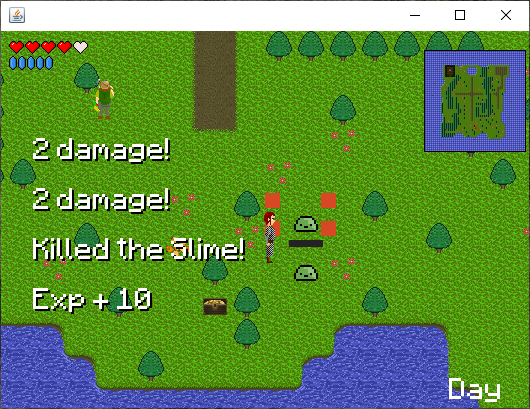
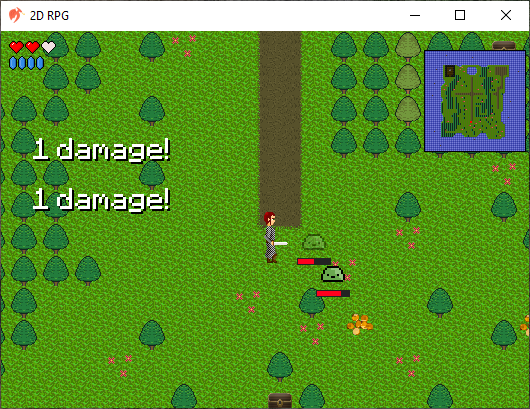
Update

diff --git a/src/main/java/com/craivet/input/Keyboard.java b/src/main/java/com/craivet/input/Keyboard.java
@@ -1,6 +1,5 @@
 package com.craivet.input;
 
-import com.craivet.Direction;
 import com.craivet.Game;
 
 import javax.swing.*;
@@ -20,8 +19,8 @@ import static com.craivet.utils.Global.*;
  * <li>Inventory: I</li>
  * <li>Stats Window: C</li>
  * <li>Debug: Q</li>
- * <li>God: G</li>
- * Ignores collisions with solid tiles and does not lose life.
+ * <li>Test Mode: T</li>
+ * Ignores collisions with solid tiles, does not lose life and can see in the dark.
  * <li>Hitbox: H</li>
  * </ul>
  */
@@ -30,7 +29,7 @@ public class Keyboard extends KeyAdapter {
 
     private final Game game;
 
-    public boolean enter, esc, w, a, s, d, shoot, pickup, minimap, debug, god, hitbox;
+    public boolean enter, esc, w, a, s, d, shoot, pickup, minimap, debug, test, hitbox;
     private int lastKey = -1;
     private final int maxKeycode = 255;
 
@@ -149,7 +148,7 @@ public class Keyboard extends KeyAdapter {
         if (code == KeyEvent.VK_P) pickup = true;
         if (code == KeyEvent.VK_Q) debug = !debug;
         if (code == KeyEvent.VK_H) hitbox = !hitbox;
-        if (code == KeyEvent.VK_G) god = !god;
+        if (code == KeyEvent.VK_T) test = !test;
         if (code == KeyEvent.VK_C) game.state = STATS_STATE;
         if (code == KeyEvent.VK_I) game.state = INVENTORY_STATE;
         if (code == KeyEvent.VK_ESCAPE) game.state = OPTION_STATE;

diff --git a/src/main/java/com/craivet/world/entity/Player.java b/src/main/java/com/craivet/world/entity/Player.java
@@ -218,7 +218,7 @@ public class Player extends Mob {
     }
 
     private void checkStats() {
-        if (!game.keyboard.god) if (stats.hp <= 0) die();
+        if (!game.keyboard.test) if (stats.hp <= 0) die();
         if (stats.hp > stats.maxHp) stats.hp = stats.maxHp;
         if (stats.mana > stats.maxMana) stats.mana = stats.maxMana;
     }
@@ -397,7 +397,7 @@ public class Player extends Mob {
     @Override
     public void checkCollisions() {
         flags.colliding = false;
-        if (!game.keyboard.god) game.collision.checkTile(this);
+        if (!game.keyboard.test) game.collision.checkTile(this);
         pickup(game.collision.checkItem(this));
         interactNpc(game.collision.checkEntity(this, world.mobs));
         hurt(game.collision.checkEntity(this, world.mobs));

diff --git a/src/main/java/com/craivet/states/GameState.java b/src/main/java/com/craivet/states/GameState.java
@@ -37,7 +37,15 @@ public class GameState implements State {
         minimap.render(g2);
         ui.render(g2);
 
-        // Debug mode
+        if (game.keyboard.test) {
+            g2.setFont(g2.getFont().deriveFont(Font.PLAIN, 17));
+            String text = "Test Mode";
+            int textLength = (int) g2.getFontMetrics().getStringBounds(text, g2).getWidth();
+            int x = WINDOW_WIDTH / 2 - textLength / 2;
+            int y = 25;
+            g2.drawString(text, x, y);
+        }
+
         if (game.keyboard.debug) {
             g2.setFont(g2.getFont().deriveFont(Font.PLAIN, 8));
             int x = 8, y = (int) (WINDOW_HEIGHT - tile * 2.8), gap = 15;

diff --git a/src/main/java/com/craivet/world/entity/item/Chicken.java b/src/main/java/com/craivet/world/entity/item/Chicken.java
@@ -18,7 +18,7 @@ public class Chicken extends Item {
         super(game, world, pos.length > 0 ? pos[0] : -1, pos.length > 1 ? pos[1] : -1);
         type = Type.CONSUMABLE;
         stats.name = NAME;
-        description = "[" + stats.name + "]\nSkeleton's favorite \nfood.";
+        description = "[" + stats.name + "]\nYes...\nSkeleton's treasure.";
         price = 1;
         sheet.frame = Utils.scaleImage(chicken, tile, tile);
     }

diff --git a/src/main/java/com/craivet/world/management/EnvironmentManager.java b/src/main/java/com/craivet/world/management/EnvironmentManager.java
@@ -23,6 +23,6 @@ public class EnvironmentManager implements State {
 
     @Override
     public void render(Graphics2D g2) {
-        if (!world.player.game.keyboard.god) lighting.render(g2);
+        if (!world.player.game.keyboard.test) lighting.render(g2);
     }
 }
